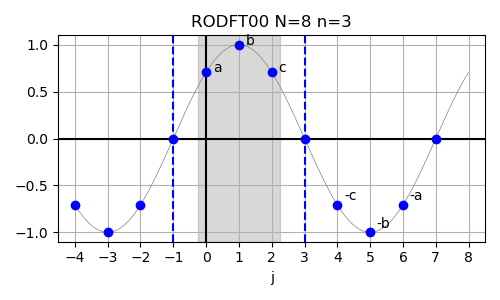
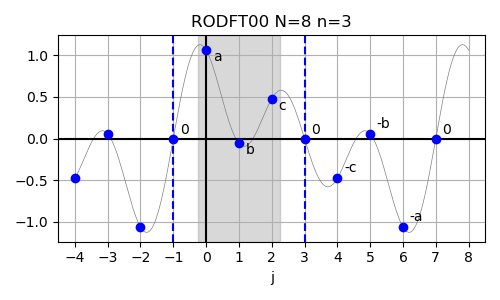
RODFTxx examples refined

diff --git a/img/plot_1d_rodft_examples.py b/img/plot_1d_rodft_examples.py
@@ -7,34 +7,117 @@ Created on Thu Mar 18 18:59:42 2021
 """
 
 import numpy as np
+from numpy.random import default_rng
 import matplotlib.pyplot as plt
 from matplotlib.ticker import MaxNLocator
 
-omega = 2.0*np.pi
+# compute the RODFT00 as defined in the FFTW reference manual
+def rodft00(arr):
+    n = len(arr)
+    out = np.zeros([n])
+    for k in range(n):
+        for j in range(n):
+            out[k] += 2.0 * arr[j] * np.sin(np.pi*(j+1)*(k+1)/(n+1))
+    return out
 
-# eval cosine at n_ref points for background
-n_ref = 1024
+# compute the RODFT10 as defined in the FFTW reference manual
+def rodft10(arr):
+    n = len(arr)
+    out = np.zeros([n])
+    for k in range(n):
+        for j in range(n):
+            out[k] += 2.0 * arr[j] * np.sin(np.pi*(j+0.5)*(k+1)/n)
+    return out
 
-# logical DFT size
-N = 8
+# compute the RODFT01 as defined in the FFTW reference manual
+def rodft01(arr):
+    n = len(arr)
+    out = np.zeros([n])
+    for k in range(n):
+        out[k] += (-1)**k * arr[-1]
+        for j in range(n-1):
+            out[k] += 2.0 * arr[j] * np.sin(np.pi*(j+1)*(k+0.5)/n)
+    return out
 
-t_ref = np.arange(-n_ref/2*(1+1/N), n_ref)/n_ref+1/N
-y_ref = np.sin(omega*t_ref)
-y_ref_1 = np.sin(omega*(t_ref+0.5))
-y_ref_2 = np.sin(omega*(t_ref/2))
+# compute the RODFT11 as defined in the FFTW reference manual
+def rodft11(arr):
+    n = len(arr)
+    out = np.zeros([n])
+    for k in range(n):
+        for j in range(n):
+            out[k] += 2.0 * arr[j] * np.sin(np.pi*(j+0.5)*(k+0.5)/n)
+    return out
 
-t = np.arange(-N/2, N)
-y0 = np.sin(omega*(t+1)/N)
-y1 = np.sin(omega*(t+0.5)/N)
-y2 = np.sin(omega*(t+1)/N/2)
-y3 = np.sin(omega*(t+0.5)/N/2)
+# evaluate the RODFT00 at all points given in x
+def eval_rodft00(arr, x):
+    n = len(arr)
+    y = np.zeros_like(x)
+    for j in range(n):
+        y += 2.0*arr[j]*np.sin(np.pi*(j+1)*(x+1/(n+1)))
+    return y
+
+# evaluate the RODFT10 at all points given in x
+def eval_rodft10(arr, x):
+    n = len(arr)
+    y = np.zeros_like(x)
+    for j in range(n):
+        y += 2.0*arr[j]*np.sin(np.pi*(j+0.5)*(x+1/n))
+    return y
+
+# evaluate the RODFT01 at all points given in x
+def eval_rodft01(arr, x):
+    n = len(arr)
+    y = np.zeros_like(x)
+    for j in range(n-1):
+        y += 2.0*arr[j]* np.sin(np.pi*(j+1)*(x+0.5/n))
+    y += arr[-1]* np.sin(np.pi*n*(x+0.5/n))
+    return y
+
+# evaluate the RODFT11 at all points given in x
+def eval_rodft11(arr, x):
+    n = len(arr)
+    y = np.zeros_like(x)
+    for j in range(n):
+        y += 2.0*arr[j]*np.sin(np.pi*(j+0.5)*(x+0.5/n))
+    return y
 
 #%% RODFT00 
-n = int(N/2)-1
+
+# input size for RODFT00
+n = 3
+
+# logical size of equivalent DFT (for RODFT00)
+N = 2*(n+1)
+
+# random Fourier coefficients
+rng = default_rng(seed=42)
+r2r_out = rng.uniform(size=n)
+
+# compute input of RODFT00 by RODFT00 (the inverse of RODFT00)
+r2r_in = rodft00(r2r_out)/n
+
+# extend to left for highlighting symmetry at start of array
+left_in_x = np.arange(-N+n, 0)
+left_in_y = np.zeros([N-n])
+for i in range(n):
+    # odd symmetry around -1
+    left_in_y[-i-2] = -r2r_in[i]
+
+# extend to equivalent DFT size to highlight symmetry at end of array
+full_in_x = np.arange(n, N)
+full_in_y = np.zeros([N-n])
+for i in range(n):
+    # even symmetry around n-1
+    full_in_y[i+1] = -r2r_in[-i-1]
+
+# sample at finer intervals
+nFine = 1024
+x = np.linspace(-N/2, N, nFine)
+y = eval_rodft00(r2r_out, x/(n+1))/n
 
 plt.figure(figsize=(5,3))
 
-plt.plot(t_ref[int(n_ref/N/2):]*N-1, y_ref[int(n_ref/N/2):], '-', color='gray', linewidth=0.5)
+plt.plot(x, y, '-', color='gray', linewidth=0.5)
 plt.axhline(0, ls='-', color='k')
 plt.axvline(0, ls='-', color='k')
 
@@ -45,14 +128,25 @@ plt.axvline(n, ls='--', color='b')
 # highlight array contents
 plt.axvspan(0-0.25, (n-1)+0.25, alpha=0.3, color='gray')
 
-plt.plot(t, y0, 'bo')
+# plot actual RODFT00 input
+plt.plot(r2r_in, 'bo')
 
+# label individual points
 for i in range(n):
-    plt.text(t[int(i+N/2)]+0.2, y0[int(i+N/2)], chr(ord("a")+i))
-    plt.text(t[int(N-i+2)]+0.2, y0[int(N-i+2)]+0.05, "-"+chr(ord("a")+i))
-    
+    plt.text(i+0.2, r2r_in[i]-0.13, chr(ord("a")+i))
+plt.text(-1+0.2, 0.0+0.05, "0")
 
-# only integer xaxis ticks
+plt.plot(left_in_x, left_in_y, 'bo')
+
+# plot data extending REDFT00 to full DFT
+plt.plot(full_in_x, full_in_y, 'bo')
+
+plt.text(full_in_x[0]+0.2, full_in_y[0]+0.05, "0")
+for i in range(1,n+1):
+    plt.text(full_in_x[i]+0.2, full_in_y[i]+0.07, "-"+chr(ord("a")+(n-i)))
+plt.text(full_in_x[-1]+0.2, full_in_y[-1]+0.05, "0")
+
+# only integer xaxis ticks at intervals of 1
 plt.gca().xaxis.set_major_locator(MaxNLocator(steps=(1,10), integer=True))
 plt.xlim((-4.5, 8.5))
 
@@ -63,10 +157,41 @@ plt.tight_layout()
 plt.savefig("rodft00.png")
 
 #%% RODFT10
-n = int(N/2)
+n = 4
+
+# logical size of equivalent DFT (for RODFT10)
+N = 2*n
+
+# random Fourier coefficients
+rng = default_rng(seed=41)
+r2r_out = rng.uniform(size=n)
+
+# compute input of RODFT10 by using RODFT01 (the inverse of RODFT10)
+r2r_in = rodft01(r2r_out)/n
+
+# extend to left for highlighting symmetry at start of array
+left_in_x = np.arange(-n, 0)
+left_in_y = np.zeros([n])
+for i in range(n):
+    # odd symmetry around -0.5
+    left_in_y[i] = -r2r_in[-i-1]
+
+# extend to equivalent DFT size for highlighting symmetry at end of array
+full_in_x = np.arange(n, N)
+full_in_y = np.zeros([N-n])
+for i in range(N-n):
+    # odd symmetry around n-0.5
+    full_in_y[i] = -r2r_in[-i-1]
+
+# sample "inputs" at finer intervals
+nFine = 1024
+x = np.linspace(-n, N, nFine)
+y = eval_rodft01(r2r_out, x/n)/n
 
 plt.figure(figsize=(5,3))
-plt.plot(t_ref[:-int(n_ref/N/2)]*N-0.5, y_ref[:-int(n_ref/N/2)], '-', color='gray', linewidth=0.5)
+
+plt.plot(x, y, '-', color='gray', linewidth=0.5)
+
 plt.axhline(0, ls='-', color='k')
 plt.axvline(0, ls='-', color='k')
 
@@ -77,17 +202,19 @@ plt.axvline(n-0.5, ls='--', color='b')
 # highlight array contents
 plt.axvspan(0-0.25, (n-1)+0.25, alpha=0.3, color='gray')
 
-plt.plot(t, y1, 'bo')
+plt.plot(r2r_in, 'bo')
 
-for i in range(N):
-    if i==n-1:
-        plt.text(t[int(i+N/2)]-0.7, y1[int(i+N/2)], chr(ord("a")+i))
-    elif i==N-1:
-        plt.text(t[int(i+N/2)]-0.7, y1[int(i+N/2)], "-"+chr(ord("a")+(N-i-1)))
-    elif i>=n:
-        plt.text(t[int(i+N/2)]+0.2, y1[int(i+N/2)], "-"+chr(ord("a")+(N-i-1)))
-    else:
-        plt.text(t[int(i+N/2)]+0.2, y1[int(i+N/2)], chr(ord("a")+i))
+# # label individual points
+# for i in range(n-1):
+#     plt.text(i+0.2, r2r_in[i]-0.03, chr(ord("a")+i))
+# plt.text(n-1-0.6, r2r_in[n-1]-0.03, chr(ord("a")+n-1))
+
+plt.plot(left_in_x, left_in_y, 'bo')
+
+plt.plot(full_in_x, full_in_y, 'bo')
+
+# for i in range(n):
+#     plt.text(full_in_x[i]+0.2, full_in_y[i]-0.03, chr(ord("a")+(n-1-i)))
 
 # only integer xaxis ticks
 plt.gca().xaxis.set_major_locator(MaxNLocator(steps=(1,10), integer=True))
@@ -100,9 +227,41 @@ plt.tight_layout()
 plt.savefig("rodft10.png")
 
 #%% RODFT01
+n = 4
+
+# logical size of equivalent DFT (for RODFT01)
+N = 2*n
+
+# random Fourier coefficients
+rng = default_rng(seed=42)
+r2r_out = rng.uniform(size=n)
+
+# compute input of RODFT01 by using RODFT10 (the inverse of RODFT01)
+r2r_in = rodft10(r2r_out)/n
+
+# extend to left for highlighting symmetry at start of array
+left_in_x = np.arange(-n, 0)
+left_in_y = np.zeros([n])
+for i in range(n-1):
+    # odd symmetry around -1
+    left_in_y[-i-2] = -r2r_in[i]
+
+# extend to equivalent DFT size for highlighting symmetry at end of array
+full_in_x = np.arange(n, N)
+full_in_y = np.zeros([N-n])
+for i in range(N-n-1):
+    # even symmetry around n-1
+    full_in_y[i] = r2r_in[-i+2]
+
+# sample "inputs" at finer intervals
+nFine = 1024
+x = np.linspace(-n, N, nFine)
+y = eval_rodft10(r2r_out, x/n)/n
 
 plt.figure(figsize=(5,3))
-plt.plot(t_ref[int(n_ref/N/2):]*N-1, y_ref_2[int(n_ref/N/2):], '-', color='gray', linewidth=0.5)
+
+plt.plot(x, y, '-', color='gray', linewidth=0.5)
+
 plt.axhline(0, ls='-', color='k')
 plt.axvline(0, ls='-', color='k')
 
@@ -113,13 +272,21 @@ plt.axvline(n-1, ls='--', color='r')
 # highlight array contents
 plt.axvspan(0-0.25, (n-1)+0.25, alpha=0.3, color='gray')
 
-plt.plot(t, y2, 'bo')
+plt.plot(r2r_in, 'bo')
 
-for i in range(N):
-    if i>=n and i<N-1:
-        plt.text(t[int(i+N/2)]+0.2, y2[int(i+N/2)], chr(ord("a")+(N-i-2)))
-    elif i<n:
-        plt.text(t[int(i+N/2)]+0.2, y2[int(i+N/2)], chr(ord("a")+i))
+# label individual points
+i=0
+plt.text(i+0.2, r2r_in[i]-0.03, chr(ord("a")+i))
+for i in range(1,n):
+    plt.text(i-0.5, r2r_in[i]-0.03, chr(ord("a")+i))
+
+plt.plot(left_in_x, left_in_y, 'bo')
+
+plt.plot(full_in_x, full_in_y, 'bo')
+
+for i in range(n-1):
+    plt.text(full_in_x[i]+0.2, full_in_y[i]-0.03, chr(ord("a")+(n-2-i)))
+plt.text(full_in_x[-1]+0.2, full_in_y[-1]+0.03, "0")
 
 # only integer xaxis ticks
 plt.gca().xaxis.set_major_locator(MaxNLocator(steps=(1,10), integer=True))
@@ -134,8 +301,41 @@ plt.savefig("rodft01.png")
 
 #%% RODFT11
 
+# input size for RODFT11
+n = 4
+
+# logical size of equivalent DFT (for RODFT11)
+N = 2*n
+
+# random Fourier coefficients
+rng = default_rng(seed=40)
+r2r_out = rng.uniform(size=n)
+
+# compute input of RODFT11 by RODFT11 (the inverse of RODFT11)
+r2r_in = rodft11(r2r_out)/n
+
+# extend to left for highlighting symmetry at start of array
+left_in_x = np.arange(-n, 0)
+left_in_y = np.zeros([n])
+for i in range(n):
+    # odd symmetry around -0.5
+    left_in_y[i] = -r2r_in[-i-1]
+
+# extend to equivalent DFT size to highlight symmetry at end of array
+full_in_x = np.arange(n, N)
+full_in_y = np.zeros([N-n])
+for i in range(N-n):
+    # even symmetry around n-0.5
+    full_in_y[i] = r2r_in[-i-1]
+
+# sample at finer intervals
+nFine = 1024
+x = np.linspace(-n, N, nFine)
+y = eval_rodft11(r2r_out, x/n)/n
+
 plt.figure(figsize=(5,3))
-plt.plot(t_ref[:-int(n_ref/N/2)]*N-0.5, y_ref_2[:-int(n_ref/N/2)], '-', color='gray', linewidth=0.5)
+
+plt.plot(x, y, '-', color='gray', linewidth=0.5)
 plt.axhline(0, ls='-', color='k')
 plt.axvline(0, ls='-', color='k')
 
@@ -146,17 +346,24 @@ plt.axvline(n-0.5, ls='--', color='r')
 # highlight array contents
 plt.axvspan(0-0.25, (n-1)+0.25, alpha=0.3, color='gray')
 
-plt.plot(t, y3, 'bo')
+# plot actual RODFT11 input
+plt.plot(r2r_in, 'bo')
 
-for i in range(N):
-    if i==n-1:
-        plt.text(t[int(i+N/2)]-0.6, y3[int(i+N/2)], chr(ord("a")+i))
-    elif i>=n:
-        plt.text(t[int(i+N/2)]+0.2, y3[int(i+N/2)], chr(ord("a")+(N-i-1)))
-    else:
-        plt.text(t[int(i+N/2)]+0.2, y3[int(i+N/2)], chr(ord("a")+i))
+# label individual points
+for i in range(n-1):
+    plt.text(i+0.2, r2r_in[i]-0.05, chr(ord("a")+i))
+i=n-1
+plt.text(i-0.5, r2r_in[i]-0.03, chr(ord("a")+i))
 
-# only integer xaxis ticks
+plt.plot(left_in_x, left_in_y, 'bo')
+
+# plot data extending REDFT11 to full DFT
+plt.plot(full_in_x, full_in_y, 'bo')
+
+for i in range(N-n):
+    plt.text(full_in_x[i]+0.2, full_in_y[i]-0.05, chr(ord("a")+(n-1-i)))
+
+# only integer xaxis ticks at intervals of 1
 plt.gca().xaxis.set_major_locator(MaxNLocator(steps=(1,10), integer=True))
 plt.xlim((-4.5, 8.5))
 
